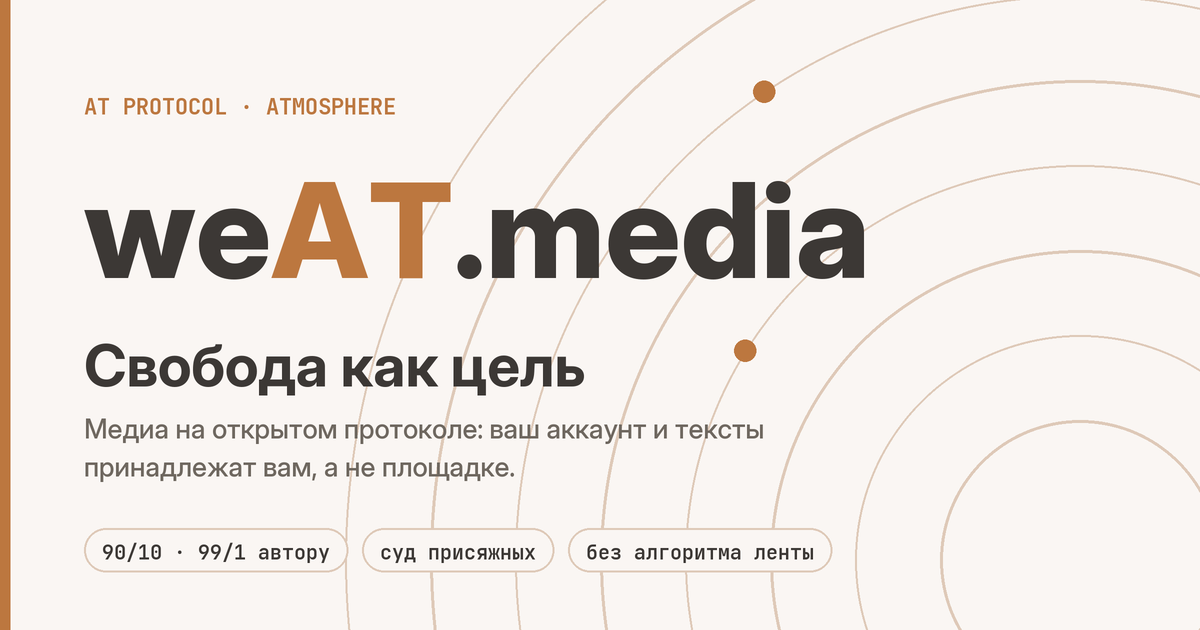
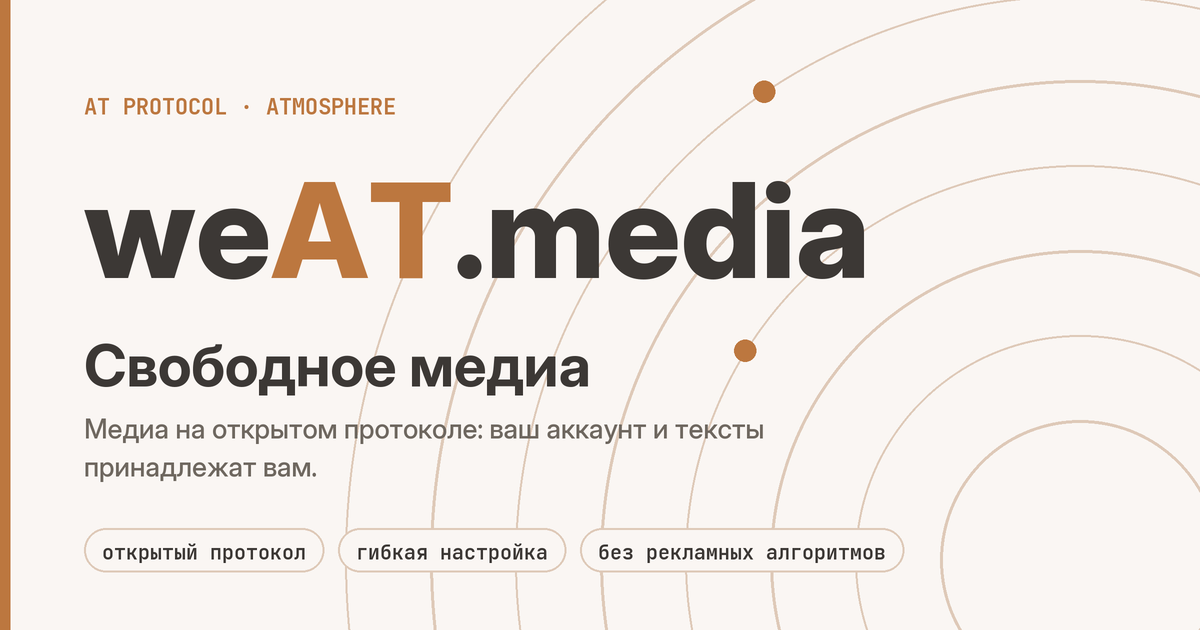
og: «Свободное медиа», chips «открытый протокол · гибкая настройка · без рекламных алгоритмов»

Changed region(s): [[0.0925, 0.8143, 0.74, 0.9349], [0.2467, 0.5429, 0.4933, 0.6333], [0.2467, 0.7238, 0.4317, 0.7841]]

diff --git a/scripts/og-image.py b/scripts/og-image.py
@@ -39,15 +39,15 @@ for t, c in parts:
     x += d.textlength(t, font=big)
 
 tag = font('Inter.ttf', 58, 700)
-d.text((X, 330 * S), 'Свобода как цель', font=tag, fill=FG)
+d.text((X, 330 * S), 'Свободное медиа', font=tag, fill=FG)
 
 sub = font('Inter.ttf', 27, 500)
 d.text((X, 412 * S), 'Медиа на открытом протоколе: ваш аккаунт и тексты', font=sub, fill=MUTED)
-d.text((X, 450 * S), 'принадлежат вам, а не площадке.', font=sub, fill=MUTED)
+d.text((X, 450 * S), 'принадлежат вам.', font=sub, fill=MUTED)
 
 chip = font('JBMono.ttf', 20, 600)
 cx0 = X
-for label in ('90/10 · 99/1 автору', 'суд присяжных', 'без алгоритма ленты'):
+for label in ('открытый протокол', 'гибкая настройка', 'без рекламных алгоритмов'):
     tw = d.textlength(label, font=chip)
     pad = 18 * S
     d.rounded_rectangle([cx0, 528 * S, cx0 + tw + pad * 2, 572 * S], radius=22 * S, outline=LINE, width=2 * S, fill=BG)
